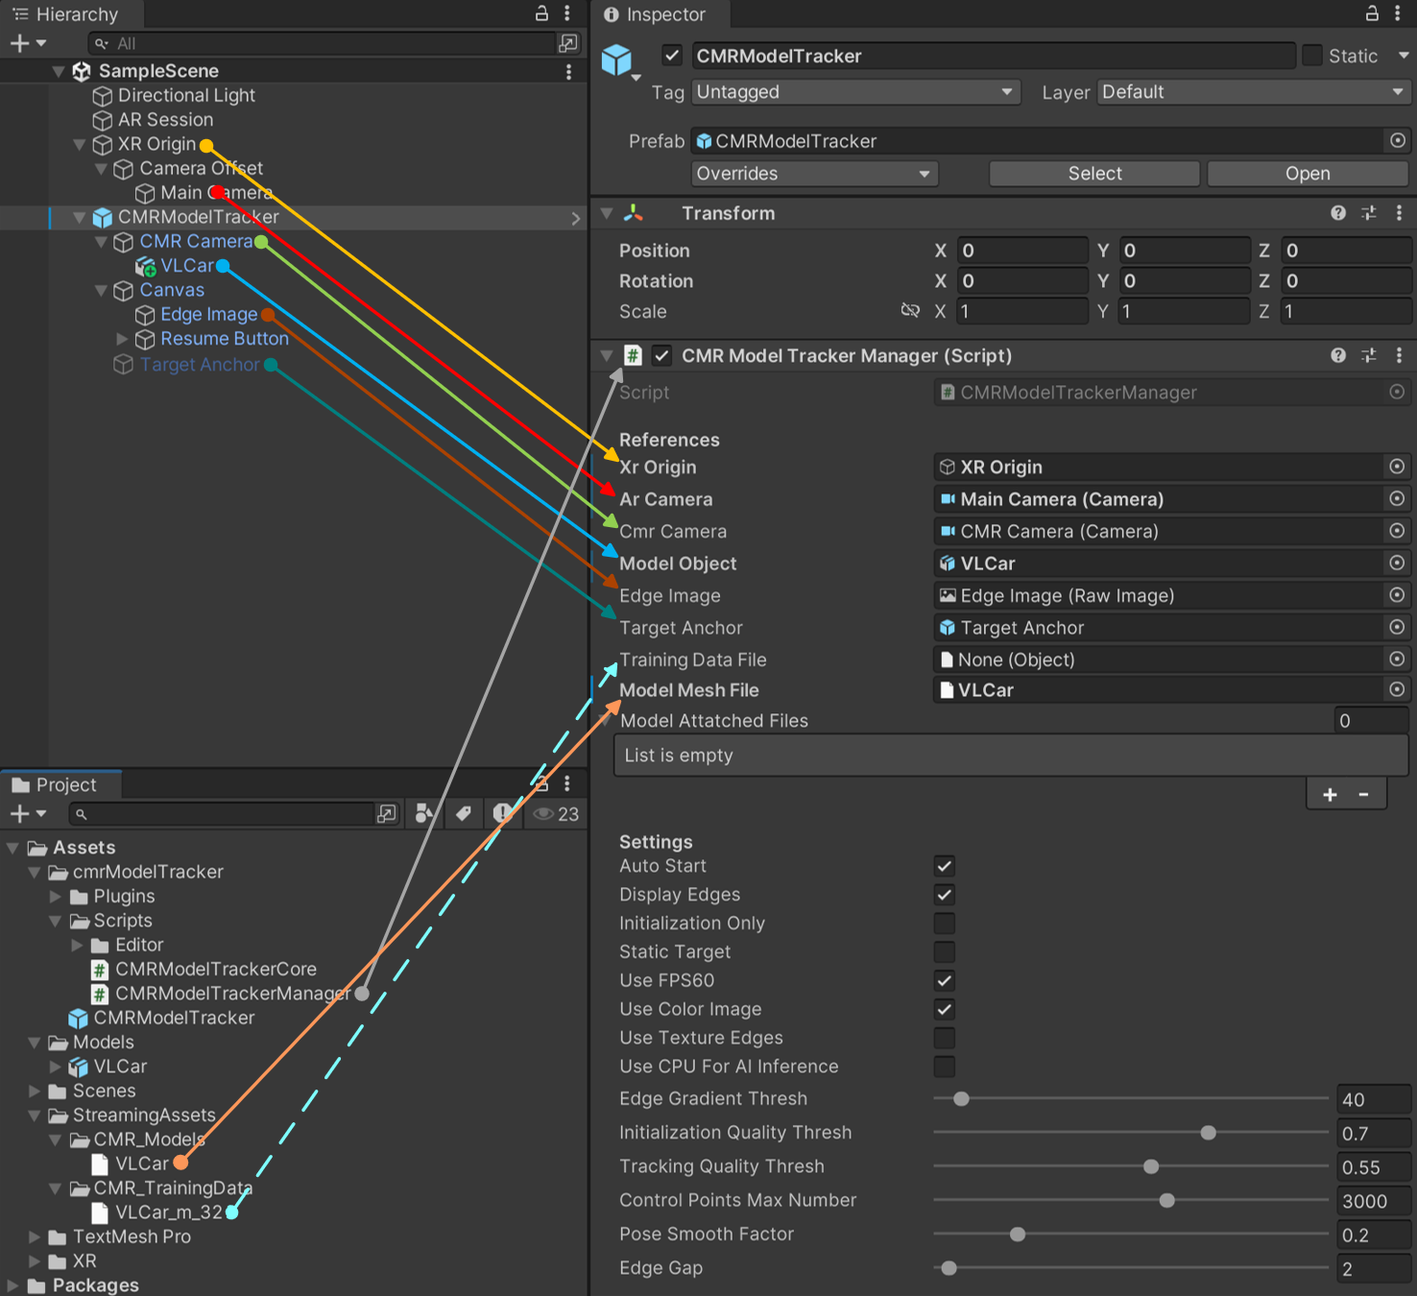
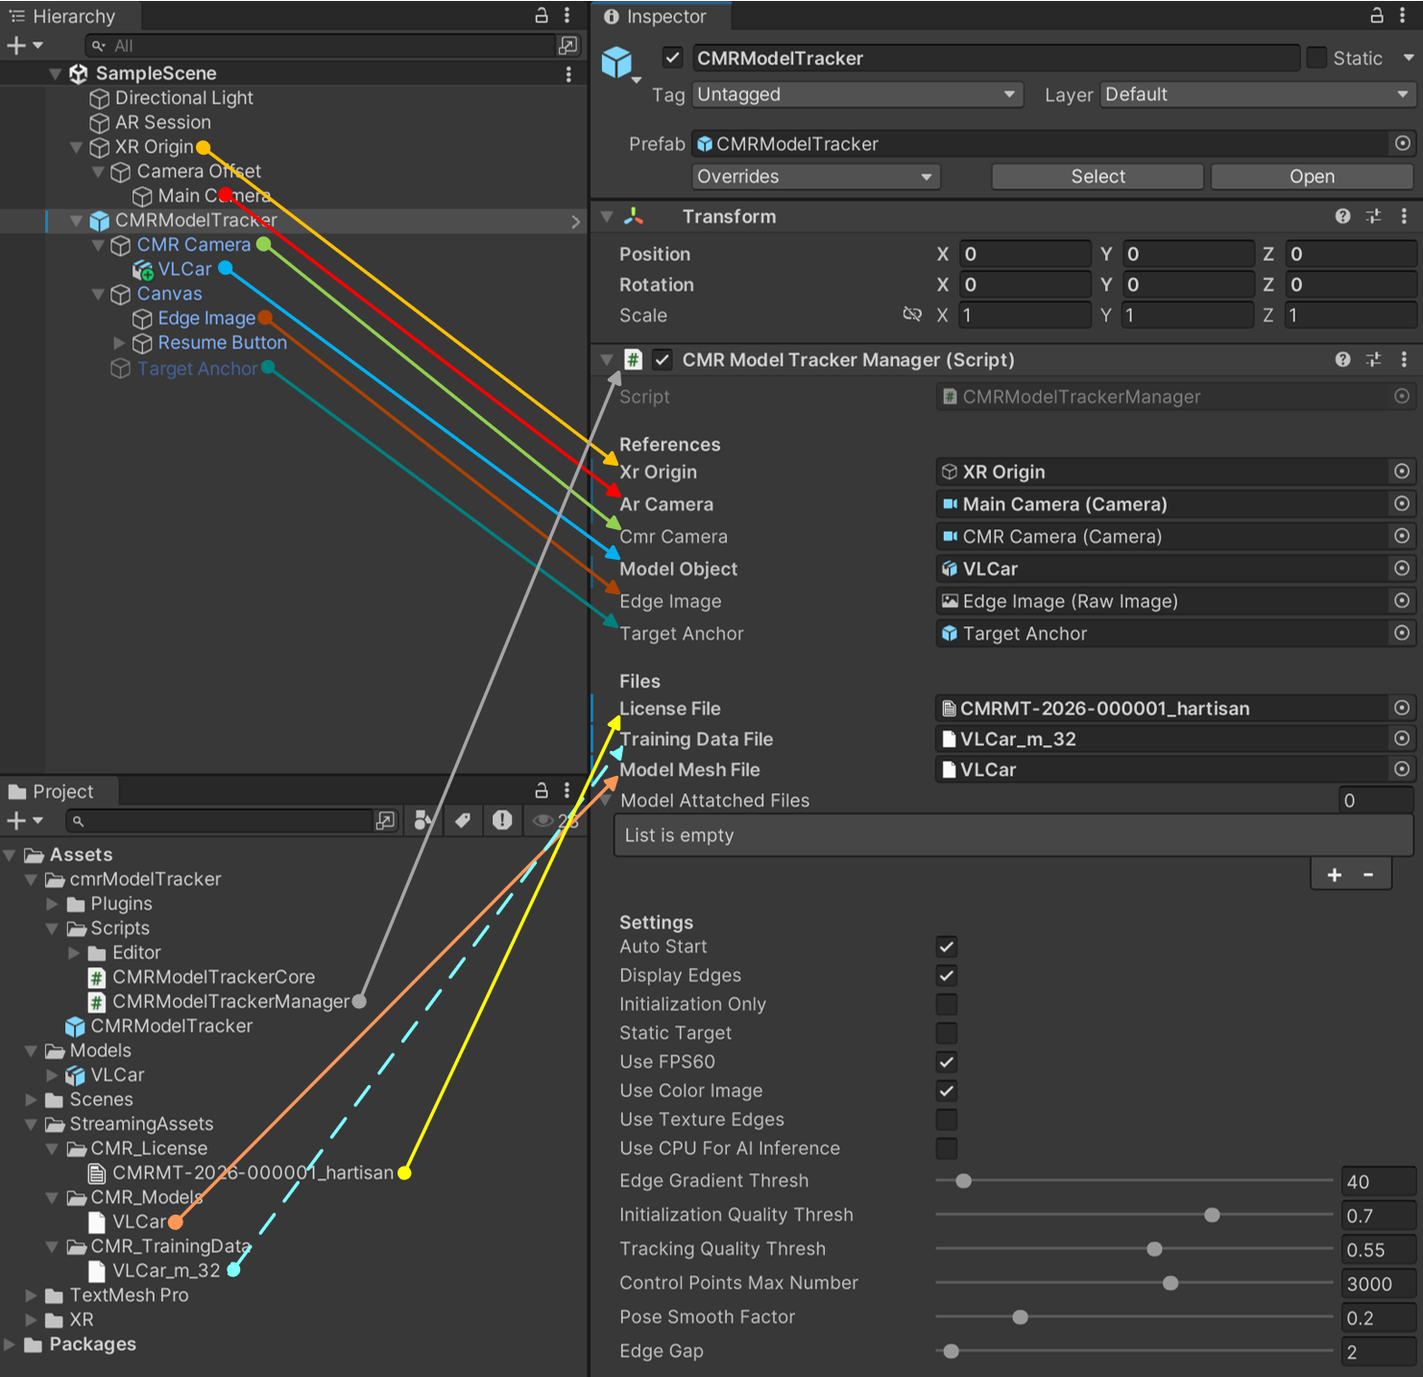
Readme for v0.7.0

diff --git a/README.md b/README.md
@@ -57,7 +57,7 @@
 ### Implementation
 &emsp;&emsp;The author implemented the algorithm kernel using C++. Meanwhile, in order to make it easier to use, the author has also developed a Unity plugin based on the kernel. There are three versions of this plugin:  ARFoundation version (iOS/Android), MRTK version (Microsoft Hololens 2), and Meta version (Quest 3/3s). Most features can also work based on the video stream from the native camera directly without relying on the ARFoundation, but ARFoundation can bring two benefits: 1. Fusion with SLAM can improve the stability of the pose and the ability of self-recovery; 2. ARFoundation provides camera intrinsics in real time without requiring the user to pre-calibrate the camera (especially those with Auto Focus).  
 
-&emsp;&emsp;The plugin is currently a lab prototype version and has not been fully tested, there may be adaptation bugs on some devices. During the trial period, the device should be connected to internet and the algorithm kernel runs for 3 minutes from the time the program starts, and stops automatically after the timeout.
+&emsp;&emsp;The plugin is currently a lab prototype version and has not been fully tested, there may be adaptation bugs on some devices. If you need a trial, please contact us to obtain a Trial License.
 <br/>
 
 
@@ -115,16 +115,19 @@
 <div align="center">
   <img src="https://github.com/HartisanBUAA/Camereon-Model-Tracker/blob/master/Images/import%20tracker%20-%20arf.png" width = "300" alt="import tracker - arf" />
 </div>
+
+#### 4. Import license file
+&emsp;&emsp;Place the license file, which is issued by us, into the *Assets/StreamingAssets* folder (create if it does not exist).
  
-#### 4. Import CAD model
+#### 5. Import CAD model
 &emsp;&emsp;Place the CAD model of the target object into the *Assets/StreamingAssets* folder (create if it does not exist). If you need to use texture edges, include the associated materials and texture maps along with the model.
 
 &emsp;&emsp;(Skip this step for AI mode) Place a copy of the CAD model into the *Assets/* folder and drag it into the scene as a child node of the *CMR Camera*. Then, use the Transform component to adjust the model's pose relative to the *CMR Camera*. This pose will serve as the initial viewpoint of the object relative to the camera for manual initialization. Users should select an appropriate initial viewpoint based on the specific application scenario.
 
-#### 5. Import pre-training data (Optional)
+#### 6. Import pre-training data (Optional)
 &emsp;&emsp;If the model has been pre-trained, import the pre-training data file (.dat) to the folder *Assets/StreamingAssets*. 
 
-#### 6. Object settings
+#### 7. Object settings
 &emsp;&emsp;The prefab *CMRModelTracker* should load the script *CMRModelTrackerManager*, which is in the *cmrModelTracker/Scripts* folder. Connect the objects in the scene to the variables in the script  as shown in the figure, where *VLCar* is the CAD model as an example.
 
 &emsp;&emsp;If the pre-trained data has been imported and AI-enhanced mode needs to be activated, connect the .dat file to the field *Training Data File*. (Optional)
@@ -153,7 +156,7 @@
   <img src="https://github.com/HartisanBUAA/Camereon-Model-Tracker/blob/master/Images/edge%20gap%20-%20eng.png" width = "700" alt="edge gap - eng" />
 </div>
 
-#### 7. Project settings
+#### 8. Project settings
 - Enable "Allow ‘unsafe’ Code"
 - Set "Scripting Backend" to "IL2CPP"
 - For Android, set "Graphics API" to "OpenGLES3", not "Vulkan" (UPDATE : Vulkan has been supported in latest ARFoundation.)
@@ -161,7 +164,7 @@
 - For iOS, enable "Requires ARKit Support"
 - Confirm "Apple ARKit" or "Google ARCore" is checked in "XR Plug-in Management"
 
-#### 8. Program interaction
+#### 9. Program interaction
 &emsp;&emsp;When the program starts running on the device, the camera is automatically turned on by ARFoundation and the video stream is displayed on the screen. When the Camereon tracker starts running (through API or "*Auto Start*" is checked in the script), 
 - **For Non-AI mode** : the edge features of the target with the initial pose, which was setup in "4. Import CAD model", will display on the screen. The user just need to move the device so that the edges are roughly aligned with the target object in the image, then the initialization will be completed and tracking begins. 
 - **For AI mode** : Manual initial pose setup is no longer required — AI will automatically detect objects and completes initialization from arbitrary viewpoints.
@@ -191,15 +194,18 @@
   <img src="https://github.com/HartisanBUAA/Camereon-Model-Tracker/blob/master/Images/import%20tracker%20-%20mrtk.png" width = "300" alt="import tracker - mrtk" />
 </div>
 
-#### 4. Import CAD model
+#### 4. Import license file
+&emsp;&emsp;Place the license file, which is issued by us, into the *Assets/StreamingAssets* folder (create if it does not exist).
+
+#### 5. Import CAD model
 &emsp;&emsp;Place the CAD model of the target object into the *Assets/StreamingAssets* folder (create if it does not exist). If you need to use texture edges, include the associated materials and texture maps along with the model.
 
 &emsp;&emsp;Place a copy of the CAD model into the *Assets/* folder and drag it into the scene as a child node of the *CMR Camera*. Then, use the Transform component to adjust the model's pose relative to the *CMR Camera*. This pose will serve as the initial viewpoint of the object relative to the eyes (not the PV camera) for manual initialization. Users should select an appropriate initial viewpoint based on the specific application scenario. If the model has been pre-trained, then setting the pose is not necessary.
 
-#### 5. Import pre-training data (Optional)
+#### 6. Import pre-training data (Optional)
 &emsp;&emsp;If the model has been pre-trained, import the pre-training data file (.dat) to the folder *Assets/StreamingAssets*. 
 
-#### 6. Object settings
+#### 7. Object settings
 &emsp;&emsp;The prefab *CMRModelTracker* should load the script *CMRModelTrackerManager*, which is in the *cmrModelTracker/Scripts* folder. Connect the objects in the scene to the variables in the script  as shown in the figure, where *VLCar* is the CAD model as an example.
 
 &emsp;&emsp;If the pre-trained data has been imported and AI-enhanced mode needs to be activated, connect the .dat file to the field *Training Data File*. (Optional)
@@ -225,12 +231,12 @@
   <img src="https://github.com/HartisanBUAA/Camereon-Model-Tracker/blob/master/Images/edge%20gap%20-%20eng.png" width = "700" alt="edge gap - eng" />
 </div>
 
-#### 7. Project settings
+#### 8. Project settings
 - Enable "Allow ‘unsafe’ Code"
 - Set "Architecture" to "ARM 64-bit"
 - Confirm "Open XR" and "Microsoft Hololens feature group" are checked in "XR Plug-in Management"
 
-#### 8. Program interaction
+#### 9. Program interaction
 &emsp;&emsp;When the Camereon tracker starts running (through API or "*Auto Start*" is checked in the script), 
 - **For Non-AI mode** : the CAD model of the target with initial pose, which was set in "4. Import CAD model", will display in front of the user's eyes.The user just need to move his head so that the model is roughly aligned with the real target object, then the initialization will be completed and tracking begins. 
 - **For AI mode** : Manual initial pose setup is no longer required — AI will automatically detect objects and completes initialization from arbitrary viewpoints (The object must remain within the PV camera’s field of view). **It is important to note that inference on the Hololens requires 3-4 seconds per pass (potentially constrained by computing resources). Consequently, it is advisable to keep the target object relatively still with respect to the Hololens during the initialization phase.**
@@ -257,15 +263,18 @@
   <img src="https://github.com/HartisanBUAA/Camereon-Model-Tracker/blob/master/Images/import%20tracker%20-%20meta.png" width = "300" alt="import tracker - meta" />
 </div>
 
-#### 4. Import CAD model
+#### 4. Import license file
+&emsp;&emsp;Place the license file, which is issued by us, into the *Assets/StreamingAssets* folder (create if it does not exist).
+
+#### 5. Import CAD model
 &emsp;&emsp;Place the CAD model of the target object into the *Assets/StreamingAssets* folder (create if it does not exist). If you need to use texture edges, include the associated materials and texture maps along with the model.
 
 &emsp;&emsp;Place a copy of the CAD model into the *Assets/* folder and drag it into the scene as a child node of the *CMR Camera*. Then, use the Transform component to adjust the model's pose relative to the *CMR Camera*. This pose will serve as the initial viewpoint of the object relative to the eyes (not the left/right camera) for manual initialization. Users should select an appropriate initial viewpoint based on the specific application scenario. If the model has been pre-trained, then setting the pose is not necessary.
 
-#### 5. Import pre-training data (Optional)
+#### 6. Import pre-training data (Optional)
 &emsp;&emsp;If the model has been pre-trained, import the pre-training data file (.dat) to the folder *Assets/StreamingAssets*. 
 
-#### 6. Object settings
+#### 7. Object settings
 &emsp;&emsp;The prefab *CMRModelTracker* should load the script *CMRModelTrackerManager* and *PassthroughCameraAccess*. *CMRModelTrackerManager* is in the *cmrModelTracker/Scripts* folder, and *PassthroughCameraAccess* is provided by MRUK. Connect the objects in the scene to the variables in the script  as shown in the figure below, where *VLCar* is the CAD model as an example.
 
 &emsp;&emsp;If the pre-trained data has been imported and AI-enhanced mode needs to be activated, connect the .dat file to the field *Training Data File*. (Optional)
@@ -297,13 +306,13 @@
 - ***Requested Resolution***. Expected image resolution. The default value is 1280*960.
 - ***Max Framerate***. Max framerate. The default value is 60.
 
-#### 7. Project settings
+#### 8. Project settings
 - Enable "Allow ‘unsafe’ Code"
 - Set "Target Architecture" to "ARM64"
 - Set "Graphics API" to "Vulkan"
 - Open AndroidManifest.xml and add : ` <uses-permission android:name="horizonos.permission.HEADSET_CAMERA" /> `
 
-#### 8. Program interaction
+#### 9. Program interaction
 &emsp;&emsp;When the Camereon tracker starts running (through API or "*Auto Start*" is checked in the script), 
 - **For Non-AI mode** : the CAD model of the target with initial pose, which was set in "4. Import CAD model", will display in front of the user's eyes.The user just need to move his head so that the model is roughly aligned with the real target object, then the initialization will be completed and tracking begins. 
 - **For AI mode** : Manual initial pose setup is no longer required — AI will automatically detect objects and completes initialization from arbitrary viewpoints (The object must remain within the left camera’s field of view). 

diff --git a/README_CN.md b/README_CN.md
@@ -56,7 +56,7 @@
 
 ### 项目形式
 &emsp;&emsp;作者采用C++编写了算法内核。同时为了便于使用，又基于该内核开发了Unity插件，分为 ARFoundation 版（iOS / Android）、MRTK 版（Microsoft Hololens 2）、以及 Meta 版（Quest 3/3S）。直接基于原生相机的视频流而不依赖 ARFoundation 也可以实现大部分功能，但 ARFoundation 可以带来两个益处：**1. 与SLAM融合，提高位姿稳定性和自恢复能力；2. 实时提供相机内参，无需要求用户预先标定相机（尤其在自动对焦功能可能引起内参变化时）**。考虑到 ARFoundation 对后续设备的支持覆盖越来越广，作者暂时选择基于该框架进行了插件开发。  
-&emsp;&emsp;当前插件为实验室原型版本，尚未经过大面积测试，在某些设备上可能会出现适配bug，欢迎反馈。在试用期间设备需联网，算法内核自程序启动之时起运行3分钟，超时后自动停止。
+&emsp;&emsp;当前插件为实验室原型版本，尚未经过大面积测试，在某些设备上可能会出现适配bug，欢迎反馈。如需试用，请联系我们获取Trial License。
 <br/>
 
 
@@ -67,7 +67,7 @@
 - 对于 Android 设备，需支持 ARCore，具体参见官方的[设备支持清单](https://developers.google.cn/ar/devices?hl=zh-cn)。对于不在清单上的设备，也有一些 [Trick](https://www.getdroidtips.com/enable-arcore-android-smartphones/) 可以让设备支持 ARCore
 - 对于 Hololens 设备，需为第二代产品
 - 对于 Meta 设备，需为 Quest 3 或 3s，并搭载 v74 及以上系统
-- 对于 Windows、Linux、MacOS 等其它平台设备，需基于底层内核单独适配，请联系我们
+- 对于 Windows、Linux、MacOS 等其它平台设备，可基于底层内核单独适配，请联系我们
 
 ### 软件版本
 - ARFoundation 5.1.0
@@ -114,16 +114,19 @@
 <div align="center">
   <img src="https://github.com/HartisanBUAA/Camereon-Model-Tracker/blob/master/Images/import%20tracker%20-%20arf.png" width = "300" alt="import tracker - arf" />
 </div>
- 
-#### 4. 导入模型
+
+ #### 4. 导入License文件
+&emsp;&emsp;将我们签发的 License 文件放入 *Assets/StreamingAssets* 中（没有则自行创建）。
+
+#### 5. 导入模型
 &emsp;&emsp;将目标物体的 CAD 模型放入 *Assets/StreamingAssets* 中（没有则自行创建），如果需要使用纹理边缘就将模型附属的材质、纹理贴图等文件一并放入。
 
 &emsp;&emsp;（AI模式可跳过此步）将 CAD 模型再放入 *Assets/* 一份并拖入场景中，置于 *CMR Camera* 下作为其子节点。然后通过 *Transform* 组件调整模型相对于 *CMR Camera* 的位姿，该位姿将被作为物体相对于相机的初始视角用于手动初始化，用户应根据应用场景选择合适的初始视角。
 
-#### 5. 导入预训练数据（可选）
+#### 6. 导入预训练数据（可选）
 &emsp;&emsp;若已经对模型进行了预训练，将预训练数据（.dat 文件）放入 *Assets/StreamingAssets* 中，以保证数据文件被无损打包至程序中。
 
-#### 6. 对象设置
+#### 7. 对象设置
 &emsp;&emsp;预制体 *CMRModelTracker* 应挂载 *cmrModelTracker/Scripts* 文件夹中的 *CMRModelTrackerManager* 脚本，并将脚本中的变量与场景中的对象连接，如下图所示。其中 *VLCar* 是作为示例而导入的 CAD 模型。
 
 &emsp;&emsp;若已导入预训练数据并要启用 AI 模式，则将 .dat 文件与脚本的 *Training Data File* 连线（非必须）。
@@ -152,7 +155,7 @@
   <img src="https://github.com/HartisanBUAA/Camereon-Model-Tracker/blob/master/Images/edge%20gap%20-%20chs.png" width = "700" alt="edge gap - chs" />
 </div>
 
-#### 7. 打包设置
+#### 8. 打包设置
 &emsp;&emsp;切换到目标平台正常进行打包即可，但 Project Settings 中个别设置需要注意：
 - 需勾选 “Allow ‘unsafe’ Code”
 - “Scripting Backend” 选择 “IL2CPP”
@@ -161,7 +164,7 @@
 - iOS 平台勾选 “Requires ARKit Support”
 - 在 “XR Plug-in Management” 中确认勾选了 “Apple ARKit” 或 “Google ARCore”
 
-#### 8. 程序交互
+#### 9. 程序交互
 &emsp;&emsp;程序在设备上开始运行时，摄像头被 ARFoundation 自动开启并将视频流显示到屏幕上。当本项目算法开始工作时（通过 API 控制或者在上文脚本设置中勾选了 “*Auto Start*” ），
 - **对于非AI模式**：目标物体在初始位姿下（在“4.导入模型”中设置的）的边缘特征会自动显示在屏幕上，用户移动设备使得边缘与图像中的目标物体大致对齐，即可完成初始化流程进入跟踪阶段，如下图所示；
 - **对于AI模式**：不再需要设置初始位姿，可在任意视角下由AI自动识别物体并完成初始化。
@@ -191,15 +194,18 @@
   <img src="https://github.com/HartisanBUAA/Camereon-Model-Tracker/blob/master/Images/import%20tracker%20-%20mrtk.png" width = "300" alt="import tracker - mrtk" />
 </div>
 
-#### 4. 导入模型
+ #### 4. 导入License文件
+&emsp;&emsp;将我们签发的 License 文件放入 *Assets/StreamingAssets* 中（没有则自行创建）。
+
+#### 5. 导入模型
 &emsp;&emsp;将目标物体的 CAD 模型放入 *Assets/StreamingAssets* 中（没有则自行创建），如果需要使用纹理边缘就将模型附属的材质、纹理贴图等文件一并放入。
 
 &emsp;&emsp;将 CAD 模型再放入 *Assets/* 一份并拖入场景中，置于 *CMR Camera* 下作为其子节点。若没有对模型进行预训练，则需要通过 *Transform* 组件调整模型相对于 *CMR Camera* 的位姿，该位姿将被作为物体相对于人眼（而非额头上的PV摄像头）的初始视角用于手动初始化，用户应根据应用场景选择合适的初始视角。若已经对模型进行了预训练，则无需设置初始位姿。
 
-#### 5. 导入预训练数据（可选）
+#### 6. 导入预训练数据（可选）
 &emsp;&emsp;若已经对模型进行了预训练，将预训练数据（.dat 文件）放入 *Assets/StreamingAssets* 中，以保证数据文件被无损打包至程序中。
 
-#### 6. 对象设置
+#### 7. 对象设置
 &emsp;&emsp;预制体 *CMRModelTracker* 应挂载 *cmrModelTracker/Scripts* 文件夹中的 *CMRModelTrackerManager* 脚本，并将脚本中的变量与场景中的对象连接，如下图所示。其中 *VLCar* 是作为示例而导入的 CAD 模型。
 
 &emsp;&emsp;若已导入预训练数据并要启用 AI 模式，则将 .dat 文件与脚本的 *Training Data File* 连线（非必须）。
@@ -225,13 +231,13 @@
   <img src="https://github.com/HartisanBUAA/Camereon-Model-Tracker/blob/master/Images/edge%20gap%20-%20chs.png" width = "700" alt="edge gap - chs" />
 </div>
 
-#### 7. 打包设置
+#### 8. 打包设置
 &emsp;&emsp;切换到 UWP 平台正常进行打包即可，但 Project Settings 中个别设置需要注意：
 - 需勾选 “Allow ‘unsafe’ Code”
 - “Architecture” 选择 “ARM 64-bit”
 - 在 “XR Plug-in Management” 中确认勾选了 “Open XR” 以及 “Microsoft Hololens feature group”
 
-#### 8. 程序交互
+#### 9. 程序交互
 &emsp;&emsp;程序在设备上启动后，当本项目算法开始工作时（通过 API 控制或者在上文脚本设置中勾选了 “*Auto Start*” ），
 - **对于非AI模式**：目标物体的CAD模型将在初始位姿下（在“4.导入模型”中设置的）显示在用户眼前，用户移动头部使得模型与现实中的目标物体大致对齐，即可完成初始化流程
 - **对于AI模式**：不再需要设置初始位姿，可在任意视角下由AI自动识别物体并完成初始化（需保证物体在PV相机的视野中）。**需要注意的是，Hololens上推理一次需要3-4秒（可能对计算资源进行了限制），所以在初始化过程中尽量保持目标物体与Hololens相对静止**
@@ -257,15 +263,18 @@
   <img src="https://github.com/HartisanBUAA/Camereon-Model-Tracker/blob/master/Images/import%20tracker%20-%20meta.png" width = "300" alt="import tracker - meta" />
 </div>
 
-#### 4. 导入模型
+ #### 4. 导入License文件
+&emsp;&emsp;将我们签发的 License 文件放入 *Assets/StreamingAssets* 中（没有则自行创建）。
+
+#### 5. 导入模型
 &emsp;&emsp;将目标物体的 CAD 模型放入 *Assets/StreamingAssets* 中（没有则自行创建），如果需要使用纹理边缘就将模型附属的材质、纹理贴图等文件一并放入。
 
 &emsp;&emsp;将 CAD 模型再放入 *Assets/* 一份并拖入场景中，置于 *CMR Camera* 下作为其子节点。若没有对模型进行预训练，则需要通过 *Transform* 组件调整模型相对于 *CMR Camera* 的位姿，该位姿将被作为物体相对于人眼（而非左/右摄像头）的初始视角用于手动初始化，用户应根据应用场景选择合适的初始视角。若已经对模型进行了预训练，则无需设置初始位姿。
 
-#### 5. 导入预训练数据（可选）
+#### 6. 导入预训练数据（可选）
 &emsp;&emsp;若已经对模型进行了预训练，将预训练数据（.dat 文件）放入 *Assets/StreamingAssets* 中，以保证数据文件被无损打包至程序中。
 
-#### 6. 对象设置
+#### 7. 对象设置
 &emsp;&emsp;预制体 *CMRModelTracker* 应挂载 *CMRModelTrackerManager* 以及 *PassthroughCameraAccess* 脚本，前者在 *cmrModelTracker/Scripts* 中，后者由 MRUK 提供。将脚本中的变量与场景中的对象连接，如下图所示。其中 *VLCar* 是作为示例而导入的 CAD 模型。
 
 &emsp;&emsp;若已导入预训练数据并要启用 AI 模式，则将 .dat 文件与脚本的 *Training Data File* 连线（非必须）。
@@ -297,14 +306,14 @@
 - ***Requested Resolution***. 期望的图像分辨率，默认值为 1280*960
 - ***Max Framerate***. 获取图像的最大帧率，默认值为 60
 
-#### 7. 打包设置
+#### 8. 打包设置
 &emsp;&emsp;切换到Android平台正常进行打包即可，但 Project Settings 中个别设置需要注意：
 - 需勾选 “Allow ‘unsafe’ Code”
 - “Target Architecture” 选择 “ARM64”
 - Android 平台的 “Graphics API” 需选择 Vulkan
 - AndroidManifest.xml 中需添加 ` <uses-permission android:name="horizonos.permission.HEADSET_CAMERA" /> `
 
-#### 8. 程序交互
+#### 9. 程序交互
 &emsp;&emsp;程序在设备上启动后，当本项目算法开始工作时（通过API控制或者在上文脚本设置中勾选了 “*Auto Start*” ），
 - **对于非AI模式**：目标物体的 CAD 模型将在初始位姿下（在“4.导入模型”中设置的）显示在用户眼前，用户移动头部使得模型与现实中的目标物体大致对齐，即可完成初始化流程
 - **对于AI模式**：不再需要设置初始位姿，可在任意视角下由AI自动识别物体并完成初始化（需保证物体在左相机的视野中）。
